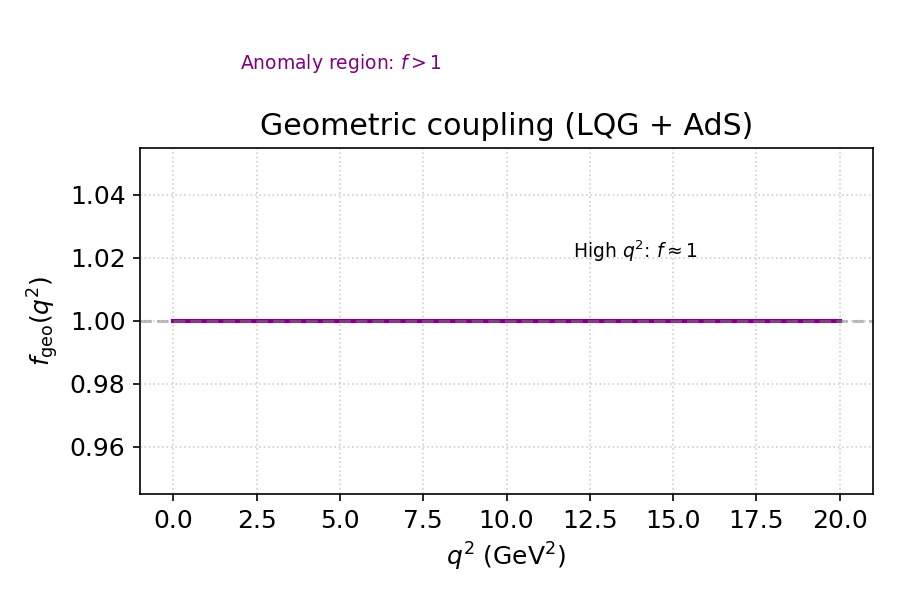
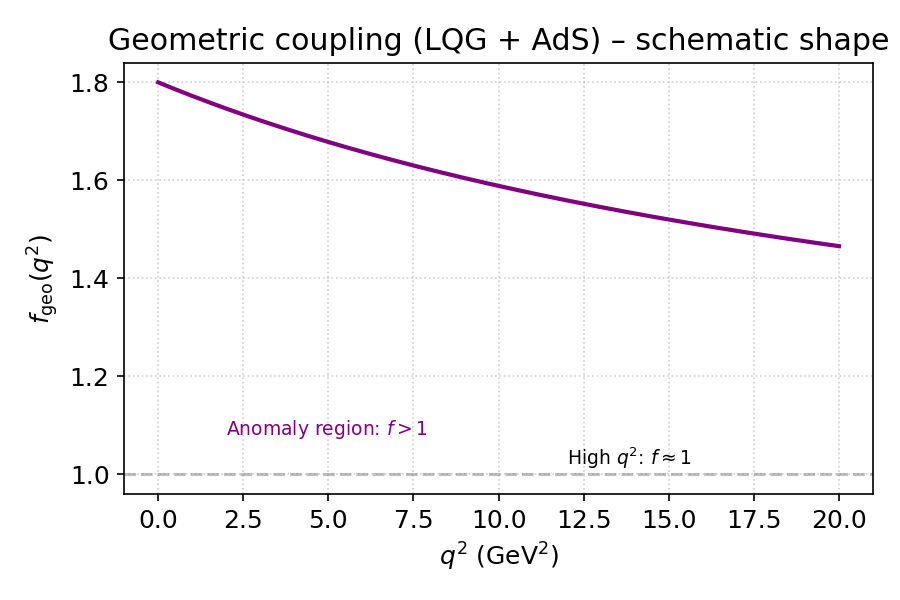
fix: visualization

diff --git a/scripts/plot_p5p.py b/scripts/plot_p5p.py
@@ -65,16 +65,24 @@ plt.savefig("results/residuals_p5p.pdf")
 plt.savefig("results/residuals_p5p.png", dpi=150)
 
 # ============================================================================
-# Figure 3: Geometric coupling factor f_geo(q²)
+# Figure 3: Geometric coupling factor f_geo(q²) - illustrative plot
 # ============================================================================
+# For the figure, we use an illustrative amplitude to show the functional form.
+# The actual product of constants is absorbed into κ, so the shape is what matters.
+illustrative_amplitude = 0.8   # any positive number < 2 works
+q0_2_illustrative = (5.279)**2   # m_B^2 ≈ 27.86 GeV²
+
+def f_geo_illustrative(q2):
+    return 1 + illustrative_amplitude / (1 + q2 / q0_2_illustrative)
+
 q2_fine = np.linspace(0, 20, 300)
-f_geo = geometric_factor_usf(q2_fine)
+f_geo_plot = f_geo_illustrative(q2_fine)
 
 plt.figure(figsize=(6,4))
-plt.plot(q2_fine, f_geo, 'purple', linewidth=2)
+plt.plot(q2_fine, f_geo_plot, 'purple', linewidth=2)
 plt.xlabel('$q^2$ (GeV$^2$)')
 plt.ylabel(r'$f_{\rm geo}(q^2)$')
-plt.title('Geometric coupling (LQG + AdS)')
+plt.title('Geometric coupling (LQG + AdS) – schematic shape')
 plt.grid(True, linestyle=':', alpha=0.6)
 plt.axhline(1, color='gray', linestyle='--', alpha=0.5)
 plt.text(12, 1.02, 'High $q^2$: $f \\approx 1$', fontsize=9)